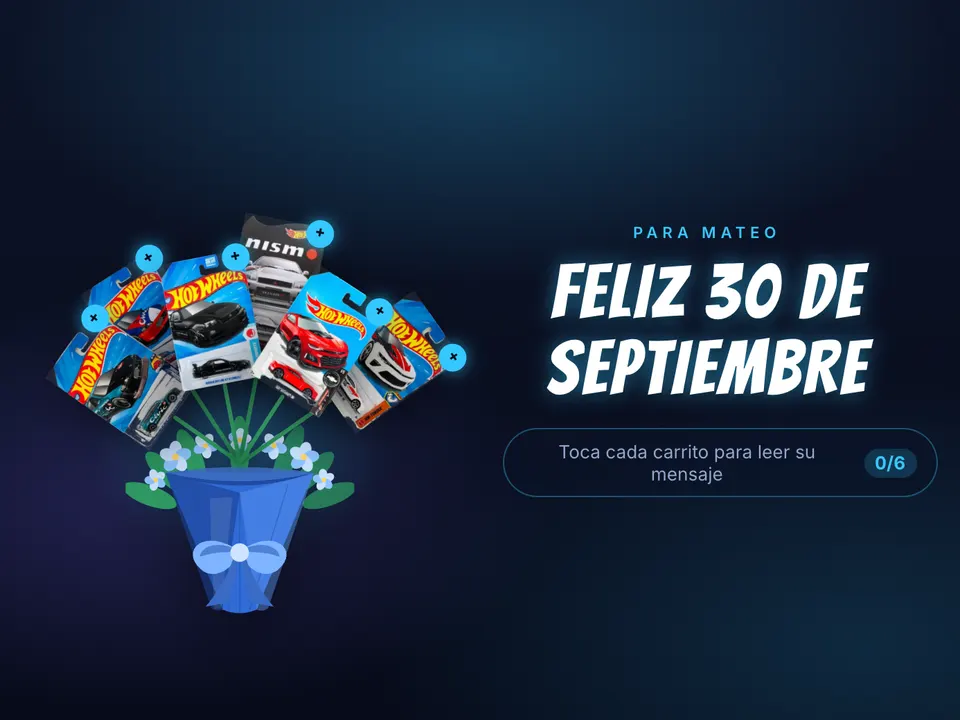
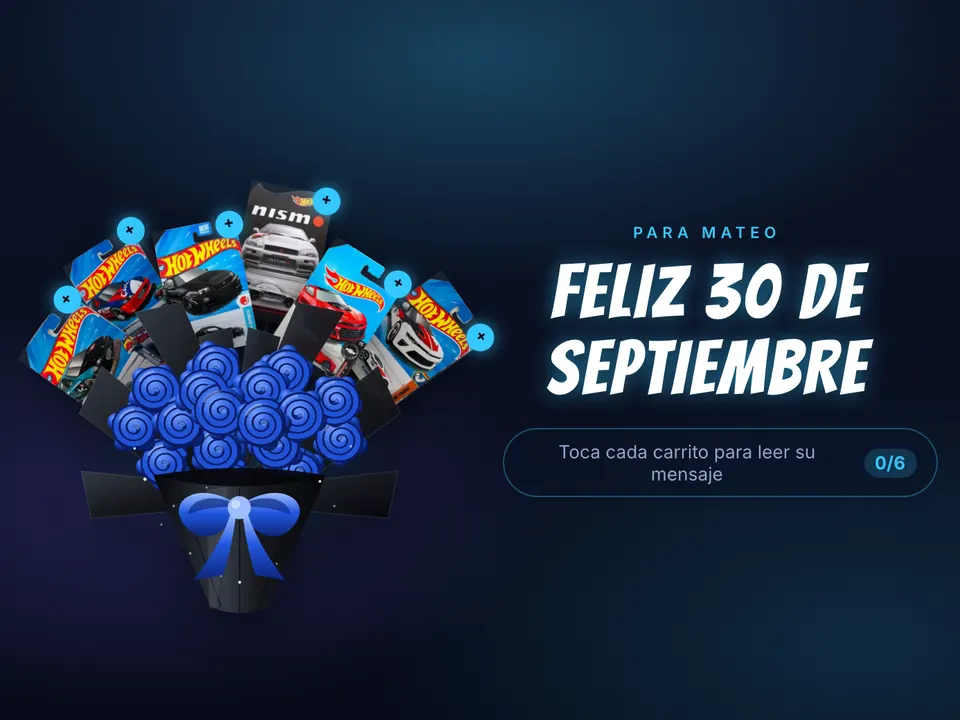
Ramo de carritos: rosas azules de satén y papel negro
El ramo real lleva rosas de satén azules envueltas en papel negro con
moño azul, no hojas verdes:
· rosas dibujadas como la cinta enrollada en espiral, con sombra entre
  pliegues y brillo de satén;
· papel negro (mismo en las cuatro paletas) con puntas abiertas y tul
  con brillos; moño de satén del color del ramo;
· el domo de rosas va por delante de los tallos (z-index + pointer-events
  none), así los carritos salen de entre las rosas como en la foto.

Las paletas ahora cambian el color de las rosas: azul, rojo, verde y morado.

Changed region(s): [[0.0312, 0.2444, 0.5312, 0.8556]]

diff --git a/src/templates/car-bouquet/Bouquet.jsx b/src/templates/car-bouquet/Bouquet.jsx
@@ -2,77 +2,165 @@
 // Cada carrito es un botón que abre su mensaje; en la portada (dim) sólo se ve la silueta.
 import Photo from "../../experience-kit/Photo.jsx";
 
-/** Papel de regalo, moño y florecitas (todo SVG, hereda los colores del tema). */
-function Wrap() {
-  const flower = (cx, cy, r, i) => (
-    <g key={`${cx}-${cy}`}>
-      {Array.from({ length: 5 }, (_, p) => (
-        <ellipse
-          key={p}
-          cx={cx}
-          cy={cy - r * 0.58}
-          rx={r * 0.46}
-          ry={r * 0.62}
-          fill={p % 2 ? "var(--cb-petal)" : "var(--cb-petal-2)"}
-          transform={`rotate(${p * 72 + i * 13} ${cx} ${cy})`}
-        />
-      ))}
-      <circle cx={cx} cy={cy} r={r * 0.24} fill="var(--cb-pollen)" />
-    </g>
-  );
+/**
+ * Rosa de satén: la cinta enrollada en espiral, con las sombras entre pliegues
+ * y un brillo arriba a la izquierda. Es como se ven las rosas de tela del ramo real.
+ */
+function Rose({ cx, cy, r, seed = 0 }) {
+  const n = (v) => Number(v.toFixed(1));
+  const start = (seed * Math.PI) / 180;
+
+  const spiral = (from, to, steps = 54) => {
+    let d = "";
+    for (let i = 0; i <= steps; i++) {
+      const k = i / steps;
+      const t = start + k * 2.7 * Math.PI * 2;
+      const rad = r * (from + k * (to - from));
+      d += `${i === 0 ? "M" : " L"}${n(cx + Math.cos(t) * rad)} ${n(cy + Math.sin(t) * rad * 0.95)}`;
+    }
+    return d;
+  };
+
+  const path = spiral(0.12, 0.84);
 
   return (
-    <svg className="cb-wrap" viewBox="0 0 320 300" fill="none" aria-hidden="true">
-      {/* hojas largas que asoman por detrás del papel */}
-      <g className="cb-wrap__leaves">
-        {[
-          [58, 96, -46], [262, 96, 46], [34, 128, -70], [286, 128, 70], [92, 72, -24], [228, 72, 24], [160, 62, 0],
-        ].map(([x, y, r], i) => (
-          <ellipse
-            key={i}
-            cx={x}
-            cy={y}
-            rx="14"
-            ry={i > 4 ? 46 : 40}
-            fill="var(--cb-leaf)"
-            opacity={i % 2 ? 0.7 : 0.95}
-            transform={`rotate(${r} ${x} ${y})`}
+    <g>
+      {/* lóbulos del borde: rompen el círculo perfecto */}
+      {[18, 90, 162, 234, 306].map((a) => {
+        const t = ((a + seed) * Math.PI) / 180;
+        return (
+          <circle
+            key={a}
+            cx={n(cx + Math.cos(t) * r * 0.72)}
+            cy={n(cy + Math.sin(t) * r * 0.68)}
+            r={n(r * 0.34)}
+            fill="url(#cb-rose-out)"
           />
+        );
+      })}
+      <circle cx={cx} cy={cy} r={n(r * 0.86)} fill="url(#cb-rose-out)" />
+      {/* pliegues: primero la sombra, encima la cinta */}
+      <path d={path} fill="none" stroke="var(--cb-rose-dark)" strokeWidth={n(r * 0.33)} strokeLinecap="round" />
+      <path d={path} fill="none" stroke="url(#cb-rose-mid)" strokeWidth={n(r * 0.19)} strokeLinecap="round" />
+      {/* brillo de satén */}
+      <path
+        d={`M${n(cx - r * 0.56)} ${n(cy - r * 0.34)} A ${n(r * 0.66)} ${n(r * 0.66)} 0 0 1 ${n(cx - r * 0.06)} ${n(cy - r * 0.68)}`}
+        fill="none"
+        stroke="#fff"
+        strokeWidth={n(r * 0.1)}
+        strokeLinecap="round"
+        opacity=".3"
+      />
+      <ellipse cx={n(cx + r * 0.06)} cy={n(cy - r * 0.04)} rx={n(r * 0.14)} ry={n(r * 0.12)} fill="var(--cb-rose-light)" opacity=".55" />
+    </g>
+  );
+}
+
+/** Papel negro, domo de rosas y moño de satén (SVG; los colores salen del tema). */
+function Wrap() {
+  // Domo de rosas: de atrás hacia adelante para que se vean superpuestas.
+  const dome = [
+    ...Array.from({ length: 9 }, (_, i) => {
+      const a = (i / 9) * Math.PI * 2 + 0.28;
+      return { cx: 160 + Math.cos(a) * 102, cy: 152 + Math.sin(a) * 56, r: 26, seed: i * 27 };
+    }),
+    ...Array.from({ length: 6 }, (_, i) => {
+      const a = (i / 6) * Math.PI * 2 + 0.9;
+      return { cx: 160 + Math.cos(a) * 58, cy: 148 + Math.sin(a) * 32, r: 27, seed: i * 41 + 15 };
+    }),
+    { cx: 142, cy: 140, r: 28, seed: 7 },
+    { cx: 182, cy: 152, r: 27, seed: 53 },
+  ];
+
+  // Hojas de papel negro que abren detrás del ramo.
+  const sheets = [
+    "M160 206 L26 96 L4 142 L114 222Z",
+    "M160 206 L294 96 L316 142 L206 222Z",
+    "M160 206 L58 44 L104 34 L156 160Z",
+    "M160 206 L262 44 L216 34 L164 160Z",
+    "M160 210 L120 68 L152 58 L166 170Z",
+    "M160 210 L200 68 L168 58 L154 170Z",
+    "M160 214 L6 198 L16 244 L132 234Z",
+    "M160 214 L314 198 L304 244 L188 234Z",
+  ];
+
+  return (
+    <svg className="cb-wrap" viewBox="0 0 320 340" fill="none" aria-hidden="true">
+      <defs>
+        <radialGradient id="cb-rose-out" cx=".34" cy=".28" r=".8">
+          <stop offset="0" stopColor="var(--cb-rose-light)" />
+          <stop offset=".4" stopColor="var(--cb-rose)" />
+          <stop offset=".78" stopColor="var(--cb-rose-dark)" />
+          <stop offset="1" stopColor="var(--cb-rose-dark)" />
+        </radialGradient>
+        <radialGradient id="cb-rose-mid" cx=".38" cy=".3" r=".72">
+          <stop offset="0" stopColor="var(--cb-rose-light)" />
+          <stop offset=".62" stopColor="var(--cb-rose)" />
+          <stop offset="1" stopColor="var(--cb-rose)" />
+        </radialGradient>
+        <linearGradient id="cb-sheet" x1="0" y1="0" x2="1" y2="1">
+          <stop offset="0" stopColor="var(--cb-paper-light)" />
+          <stop offset=".5" stopColor="var(--cb-paper)" />
+          <stop offset="1" stopColor="var(--cb-paper-dark)" />
+        </linearGradient>
+        <linearGradient id="cb-cone" x1="0" y1="0" x2="1" y2="0">
+          <stop offset="0" stopColor="var(--cb-paper-dark)" />
+          <stop offset=".42" stopColor="var(--cb-paper-light)" />
+          <stop offset=".6" stopColor="var(--cb-paper)" />
+          <stop offset="1" stopColor="var(--cb-paper-dark)" />
+        </linearGradient>
+        <linearGradient id="cb-satin" x1="0" y1="0" x2="0" y2="1">
+          <stop offset="0" stopColor="var(--cb-ribbon-light)" />
+          <stop offset=".45" stopColor="var(--cb-ribbon)" />
+          <stop offset="1" stopColor="var(--cb-ribbon-dark)" />
+        </linearGradient>
+      </defs>
+
+      {/* papel negro abierto en puntas detrás del ramo */}
+      <g className="cb-wrap__sheets">
+        {sheets.map((d, i) => (
+          <path key={i} d={d} fill="url(#cb-sheet)" stroke="rgba(255,255,255,.1)" strokeWidth="1" opacity={i % 2 ? 0.94 : 1} />
         ))}
       </g>
 
-      {/* cono de papel: arriba ancho, abajo en punta */}
-      <path d="M56 96 L264 96 L184 288 Q160 298 136 288 Z" fill="var(--cb-paper)" />
-      {/* pliegue izquierdo y derecho para dar volumen */}
-      <path d="M56 96 L160 124 L136 288 Q128 292 120 286 Z" fill="var(--cb-paper-dark)" opacity=".6" />
-      <path d="M264 96 L160 124 L184 288 Q192 292 200 286 Z" fill="var(--cb-paper-light)" opacity=".45" />
-      {/* boca del cono (lo que se ve del interior) */}
-      <path d="M56 96 Q160 80 264 96 Q160 132 56 96Z" fill="var(--cb-paper-dark)" opacity=".75" />
-      <path d="M56 96 Q160 80 264 96 Q160 120 56 96Z" fill="var(--cb-paper-light)" opacity=".45" />
-      <g stroke="var(--cb-paper-dark)" strokeWidth="1.4" opacity=".4">
-        <path d="M92 112 L146 288" />
-        <path d="M160 126 L160 292" />
-        <path d="M228 112 L174 288" />
-      </g>
-      {/* brillo del papel */}
-      <path d="M118 132 L150 130 L134 286 L124 288Z" fill="#fff" opacity=".1" />
-
-      {/* moño */}
-      <g className="cb-wrap__bow">
-        <path d="M160 206 C 112 172, 74 204, 106 232 C 126 248, 152 230, 160 206Z" fill="var(--cb-ribbon)" />
-        <path d="M160 206 C 208 172, 246 204, 214 232 C 194 248, 168 230, 160 206Z" fill="var(--cb-ribbon)" />
-        <path d="M160 206 C 132 190, 106 198, 104 214 C 124 206, 146 208, 160 206Z" fill="var(--cb-ribbon-dark)" opacity=".7" />
-        <path d="M160 206 C 188 190, 214 198, 216 214 C 196 206, 174 208, 160 206Z" fill="var(--cb-ribbon-dark)" opacity=".7" />
-        <path d="M152 214 C 142 244, 126 268, 112 284 L 144 278 C 152 254, 156 232, 158 216Z" fill="var(--cb-ribbon-dark)" />
-        <path d="M168 214 C 178 244, 194 268, 208 284 L 176 278 C 168 254, 164 232, 162 216Z" fill="var(--cb-ribbon-dark)" />
-        <circle cx="160" cy="208" r="13" fill="var(--cb-ribbon-light)" />
+      {/* domo de rosas */}
+      <g className="cb-wrap__roses">
+        {dome.map((rose, i) => (
+          <Rose key={i} {...rose} />
+        ))}
       </g>
 
-      {/* florecitas del relleno, asomando sobre el papel */}
-      <g className="cb-wrap__flowers">
+      {/* cono de papel negro */}
+      <path d="M76 202 L244 202 L188 330 Q160 342 132 330 Z" fill="url(#cb-cone)" />
+      <path d="M76 202 Q160 188 244 202 Q160 224 76 202Z" fill="var(--cb-paper-dark)" opacity=".9" />
+      <g stroke="var(--cb-paper-dark)" strokeWidth="1.4" opacity=".55">
+        <path d="M100 212 L142 330" />
+        <path d="M160 214 L160 336" />
+        <path d="M220 212 L178 330" />
+      </g>
+      <path d="M128 216 L148 214 L138 330 L130 332Z" fill="#fff" opacity=".07" />
+
+      {/* tul con brillos */}
+      <g className="cb-wrap__glitter" fill="#fff">
         {[
-          [70, 74, 19], [250, 74, 18], [112, 58, 15], [208, 58, 16], [42, 106, 13], [278, 106, 13], [160, 50, 14],
-        ].map(([x, y, r], i) => flower(x, y, r, i))}
+          [68, 206, 1.6], [96, 232, 1.2], [128, 214, 1], [150, 252, 1.5], [180, 224, 1.1], [206, 248, 1.4],
+          [238, 208, 1.3], [112, 278, 1.2], [196, 288, 1], [160, 306, 1.4], [84, 250, 1], [252, 232, 1.1],
+          [58, 176, 1.2], [268, 174, 1.3], [142, 300, 1], [176, 268, 1.2],
+        ].map(([x, y, r], i) => (
+          <circle key={i} cx={x} cy={y} r={r} opacity={i % 3 === 0 ? 0.85 : 0.5} />
+        ))}
+      </g>
+
+      {/* moño de satén */}
+      <g className="cb-wrap__bow" transform="translate(22 22) scale(0.86)">
+        <path d="M160 244 C 112 210, 70 242, 104 272 C 126 290, 152 268, 160 244Z" fill="url(#cb-satin)" />
+        <path d="M160 244 C 208 210, 250 242, 216 272 C 194 290, 168 268, 160 244Z" fill="url(#cb-satin)" />
+        <path d="M160 244 C 132 228, 104 236, 102 254 C 124 244, 146 246, 160 244Z" fill="var(--cb-ribbon-dark)" opacity=".65" />
+        <path d="M160 244 C 188 228, 216 236, 218 254 C 196 244, 174 246, 160 244Z" fill="var(--cb-ribbon-dark)" opacity=".65" />
+        <path d="M150 254 C 140 284, 122 310, 108 328 L 142 322 C 150 296, 154 272, 156 256Z" fill="url(#cb-satin)" />
+        <path d="M170 254 C 180 284, 198 310, 212 328 L 178 322 C 170 296, 166 272, 164 256Z" fill="url(#cb-satin)" />
+        <circle cx="160" cy="246" r="13" fill="var(--cb-ribbon-light)" />
+        <circle cx="156" cy="242" r="5" fill="#fff" opacity=".45" />
       </g>
     </svg>
   );

diff --git a/src/templates/car-bouquet/styles.css b/src/templates/car-bouquet/styles.css
@@ -14,19 +14,20 @@
   --cb-ink: #eaf2ff;
   --cb-soft: #93a6c8;
 
-  /* paleta azul neón (por defecto) */
+  /* papel negro: igual en todas las paletas, como el ramo real */
+  --cb-paper: #16181d;
+  --cb-paper-light: #343a44;
+  --cb-paper-dark: #05060a;
+
+  /* paleta azul (por defecto): rosas y moño de satén azul */
   --cb-neon: #35c8ff;
   --cb-neon-2: #7a6bff;
-  --cb-paper: #2f6ad6;
-  --cb-paper-light: #5d97f0;
-  --cb-paper-dark: #1b3f8f;
-  --cb-ribbon: #7fb4ff;
-  --cb-ribbon-light: #cfe4ff;
-  --cb-ribbon-dark: #3a6bc4;
-  --cb-petal: #8fc4ff;
-  --cb-petal-2: #c9e2ff;
-  --cb-pollen: #ffd45e;
-  --cb-leaf: #2f9e63;
+  --cb-rose: #1f52d6;
+  --cb-rose-light: #74a0ff;
+  --cb-rose-dark: #0a1c63;
+  --cb-ribbon: #2158e0;
+  --cb-ribbon-light: #9dbdff;
+  --cb-ribbon-dark: #0c2478;
 
   /* ancho del ramo: de él salen tarjeta, tallo y radio del abanico */
   --cb-w: min(430px, 92vw);
@@ -43,40 +44,34 @@
 .cb[data-palette="fire"] {
   --cb-neon: #ff5a3d;
   --cb-neon-2: #ffb02e;
-  --cb-paper: #c9282f;
-  --cb-paper-light: #ef5a52;
-  --cb-paper-dark: #8a1620;
-  --cb-ribbon: #ff8a5c;
-  --cb-ribbon-light: #ffd8c2;
-  --cb-ribbon-dark: #b3402a;
-  --cb-petal: #ffb8a0;
-  --cb-petal-2: #ffe2d2;
+  --cb-rose: #c81f33;
+  --cb-rose-light: #ff7a72;
+  --cb-rose-dark: #63030f;
+  --cb-ribbon: #d42134;
+  --cb-ribbon-light: #ff9b95;
+  --cb-ribbon-dark: #6e0713;
 }
 
 .cb[data-palette="nitro"] {
   --cb-neon: #7dff6a;
   --cb-neon-2: #35c8ff;
-  --cb-paper: #1f8f4d;
-  --cb-paper-light: #4fc47c;
-  --cb-paper-dark: #10603a;
-  --cb-ribbon: #8fe5a8;
-  --cb-ribbon-light: #d9ffe4;
-  --cb-ribbon-dark: #2c7a4e;
-  --cb-petal: #b6f0c4;
-  --cb-petal-2: #e4ffea;
+  --cb-rose: #17a05a;
+  --cb-rose-light: #6ef0a4;
+  --cb-rose-dark: #043b21;
+  --cb-ribbon: #17a05a;
+  --cb-ribbon-light: #8ef5b8;
+  --cb-ribbon-dark: #04452a;
 }
 
 .cb[data-palette="violet"] {
   --cb-neon: #b98bff;
   --cb-neon-2: #ff6ad5;
-  --cb-paper: #6b3fd4;
-  --cb-paper-light: #9a72f0;
-  --cb-paper-dark: #43248f;
-  --cb-ribbon: #c1a4ff;
-  --cb-ribbon-light: #ecdfff;
-  --cb-ribbon-dark: #6a49b8;
-  --cb-petal: #d6bcff;
-  --cb-petal-2: #f1e6ff;
+  --cb-rose: #7a33d6;
+  --cb-rose-light: #c99bff;
+  --cb-rose-dark: #2e0a63;
+  --cb-ribbon: #7a33d6;
+  --cb-ribbon-light: #d3b3ff;
+  --cb-ribbon-dark: #310d6b;
 }
 
 /* ── Fondo ───────────────────────────────────────────────────────────────── */
@@ -177,8 +172,12 @@
   position: absolute;
   left: 50%;
   bottom: 0;
-  width: 54%;
+  width: 78%;
   height: auto;
+  /* por delante de los tallos: los carritos salen de entre las rosas.
+     pointer-events none para que el toque llegue igual a cada carrito. */
+  z-index: 20;
+  pointer-events: none;
   transform: translateX(-50%);
   filter: drop-shadow(0 12px 22px rgba(0, 0, 0, 0.55));
 }
@@ -194,7 +193,7 @@
 
 .cb-car {
   --cb-card-w: calc(var(--cb-w) * 0.2);
-  --cb-stem: calc(var(--cb-w) * (0.19 + var(--row) * 0.075));
+  --cb-stem: calc(var(--cb-w) * (0.27 + var(--row) * 0.075));
   position: absolute;
   left: 50%;
   bottom: 0;
@@ -215,7 +214,7 @@
   width: calc(var(--cb-w) * 0.011);
   height: var(--cb-stem);
   border-radius: 999px;
-  background: linear-gradient(180deg, #46b877, #1f7a4a);
+  background: linear-gradient(180deg, #2f3540, #14171d);
   box-shadow: 0 0 10px rgba(0, 0, 0, 0.4);
 }
 
